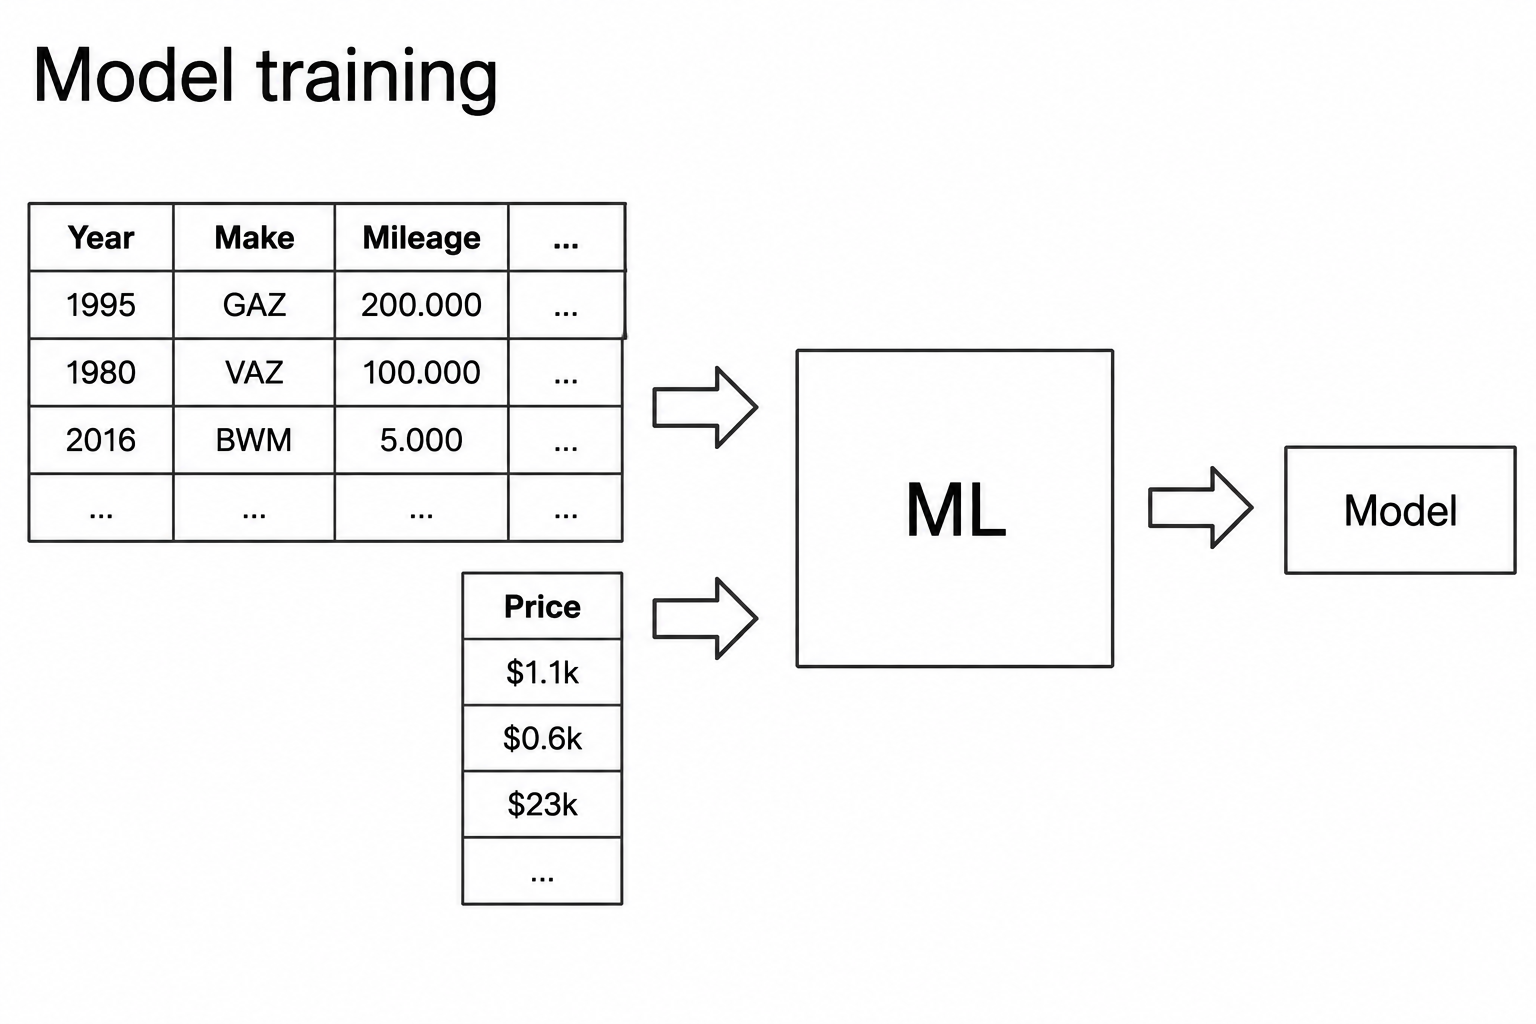
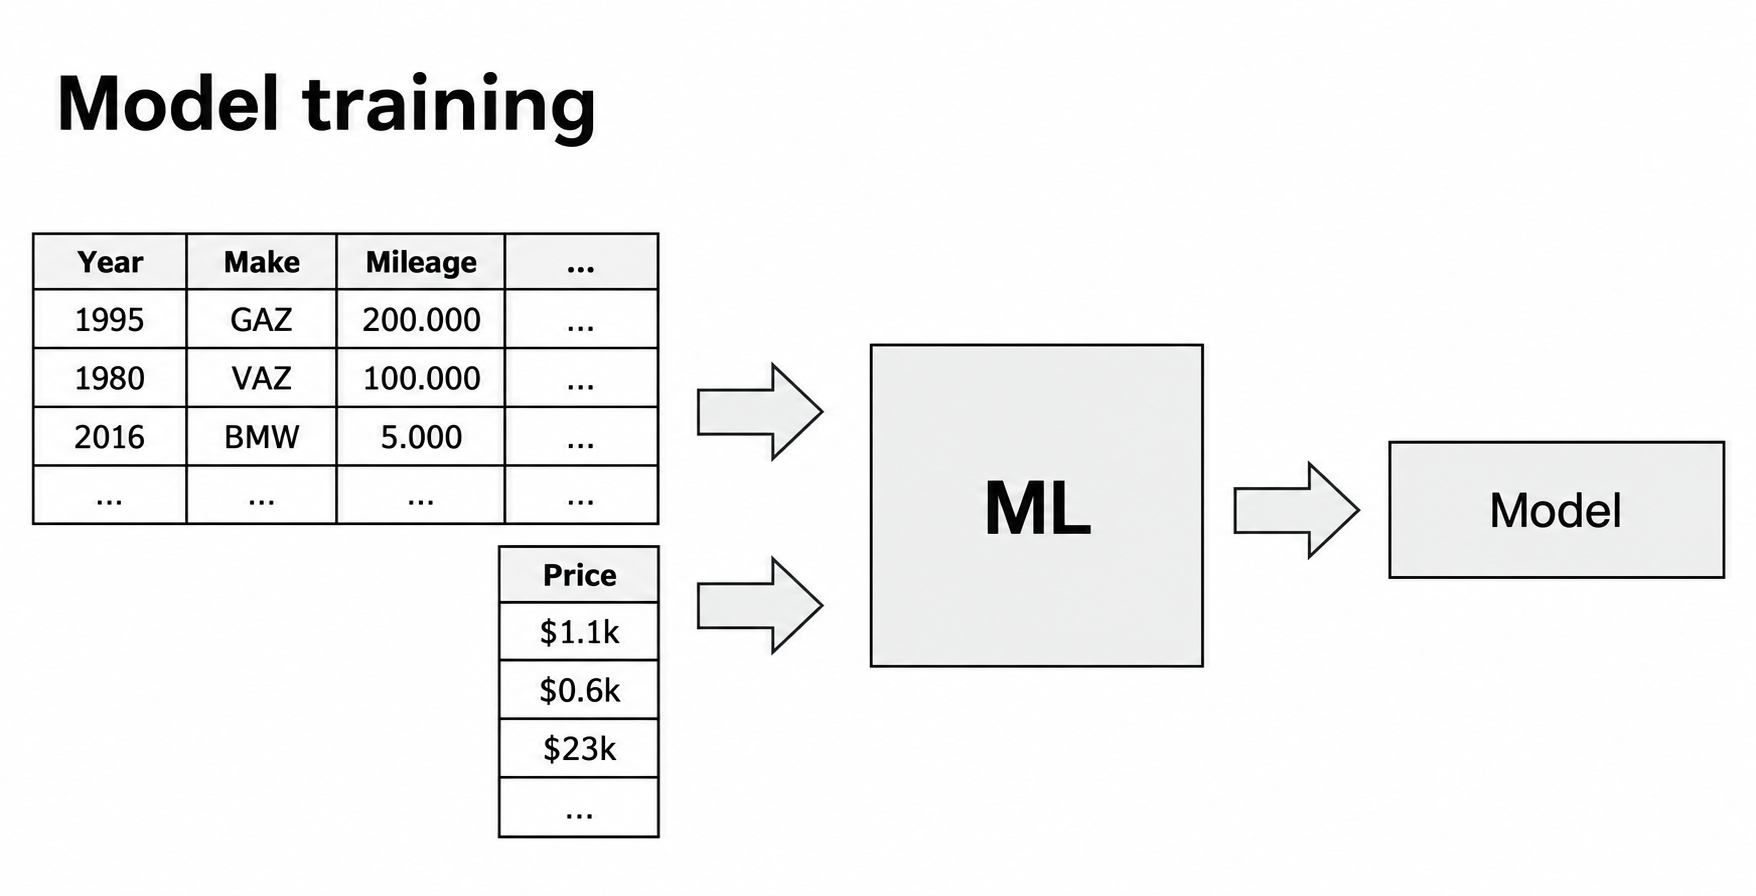
Repair intro model training illustrations

diff --git a/cohorts/2026/01-intro/images/2026-09-08-imagegen-repair-provenance.md b/cohorts/2026/01-intro/images/2026-09-08-imagegen-repair-provenance.md
@@ -1,6 +1,6 @@
 # Imagegen repair provenance: 2026-09-08 through 2026-09-09
 
-This ledger records the focused repair of six published illustrations in the
+This ledger records the focused repair of nine published illustrations in the
 2026 intro cohort. Each replacement was generated with the built-in imagegen
 tool using both the original non-crisp video-frame source and a bounded crop or
 bounded reference. No target was produced by resizing, sharpening, or enlarging
@@ -20,6 +20,9 @@ imagegen C2PA/OpenAI Media Service markers.
[6 lines of base64/hex data omitted]
 
 ## Crop construction
 
